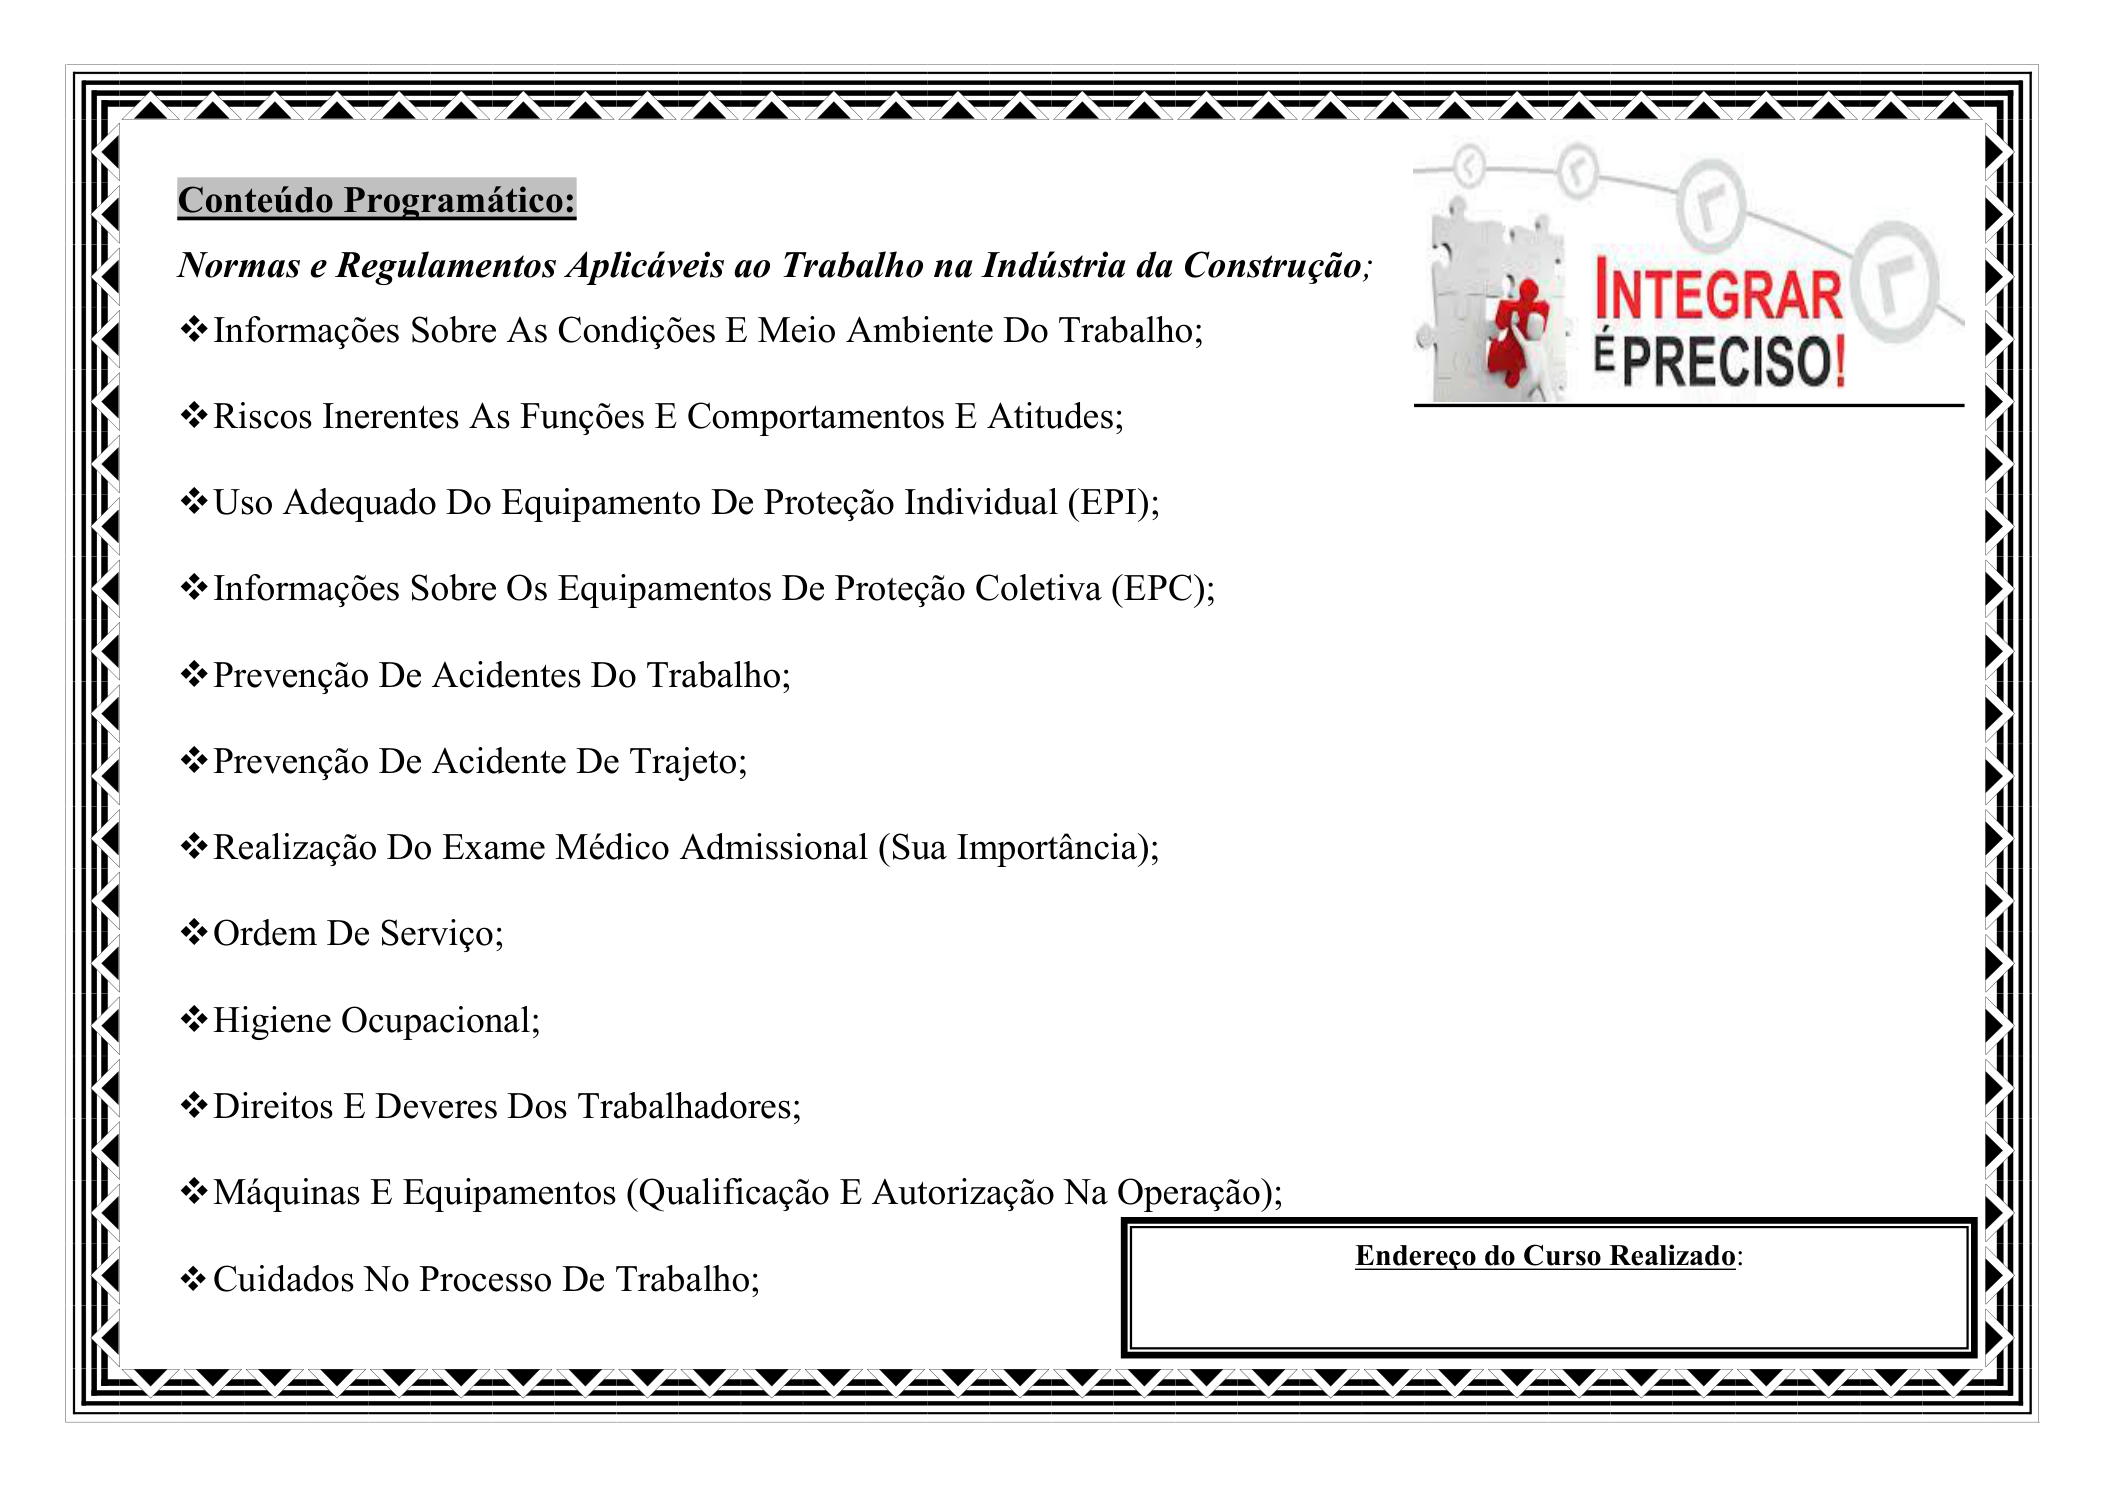
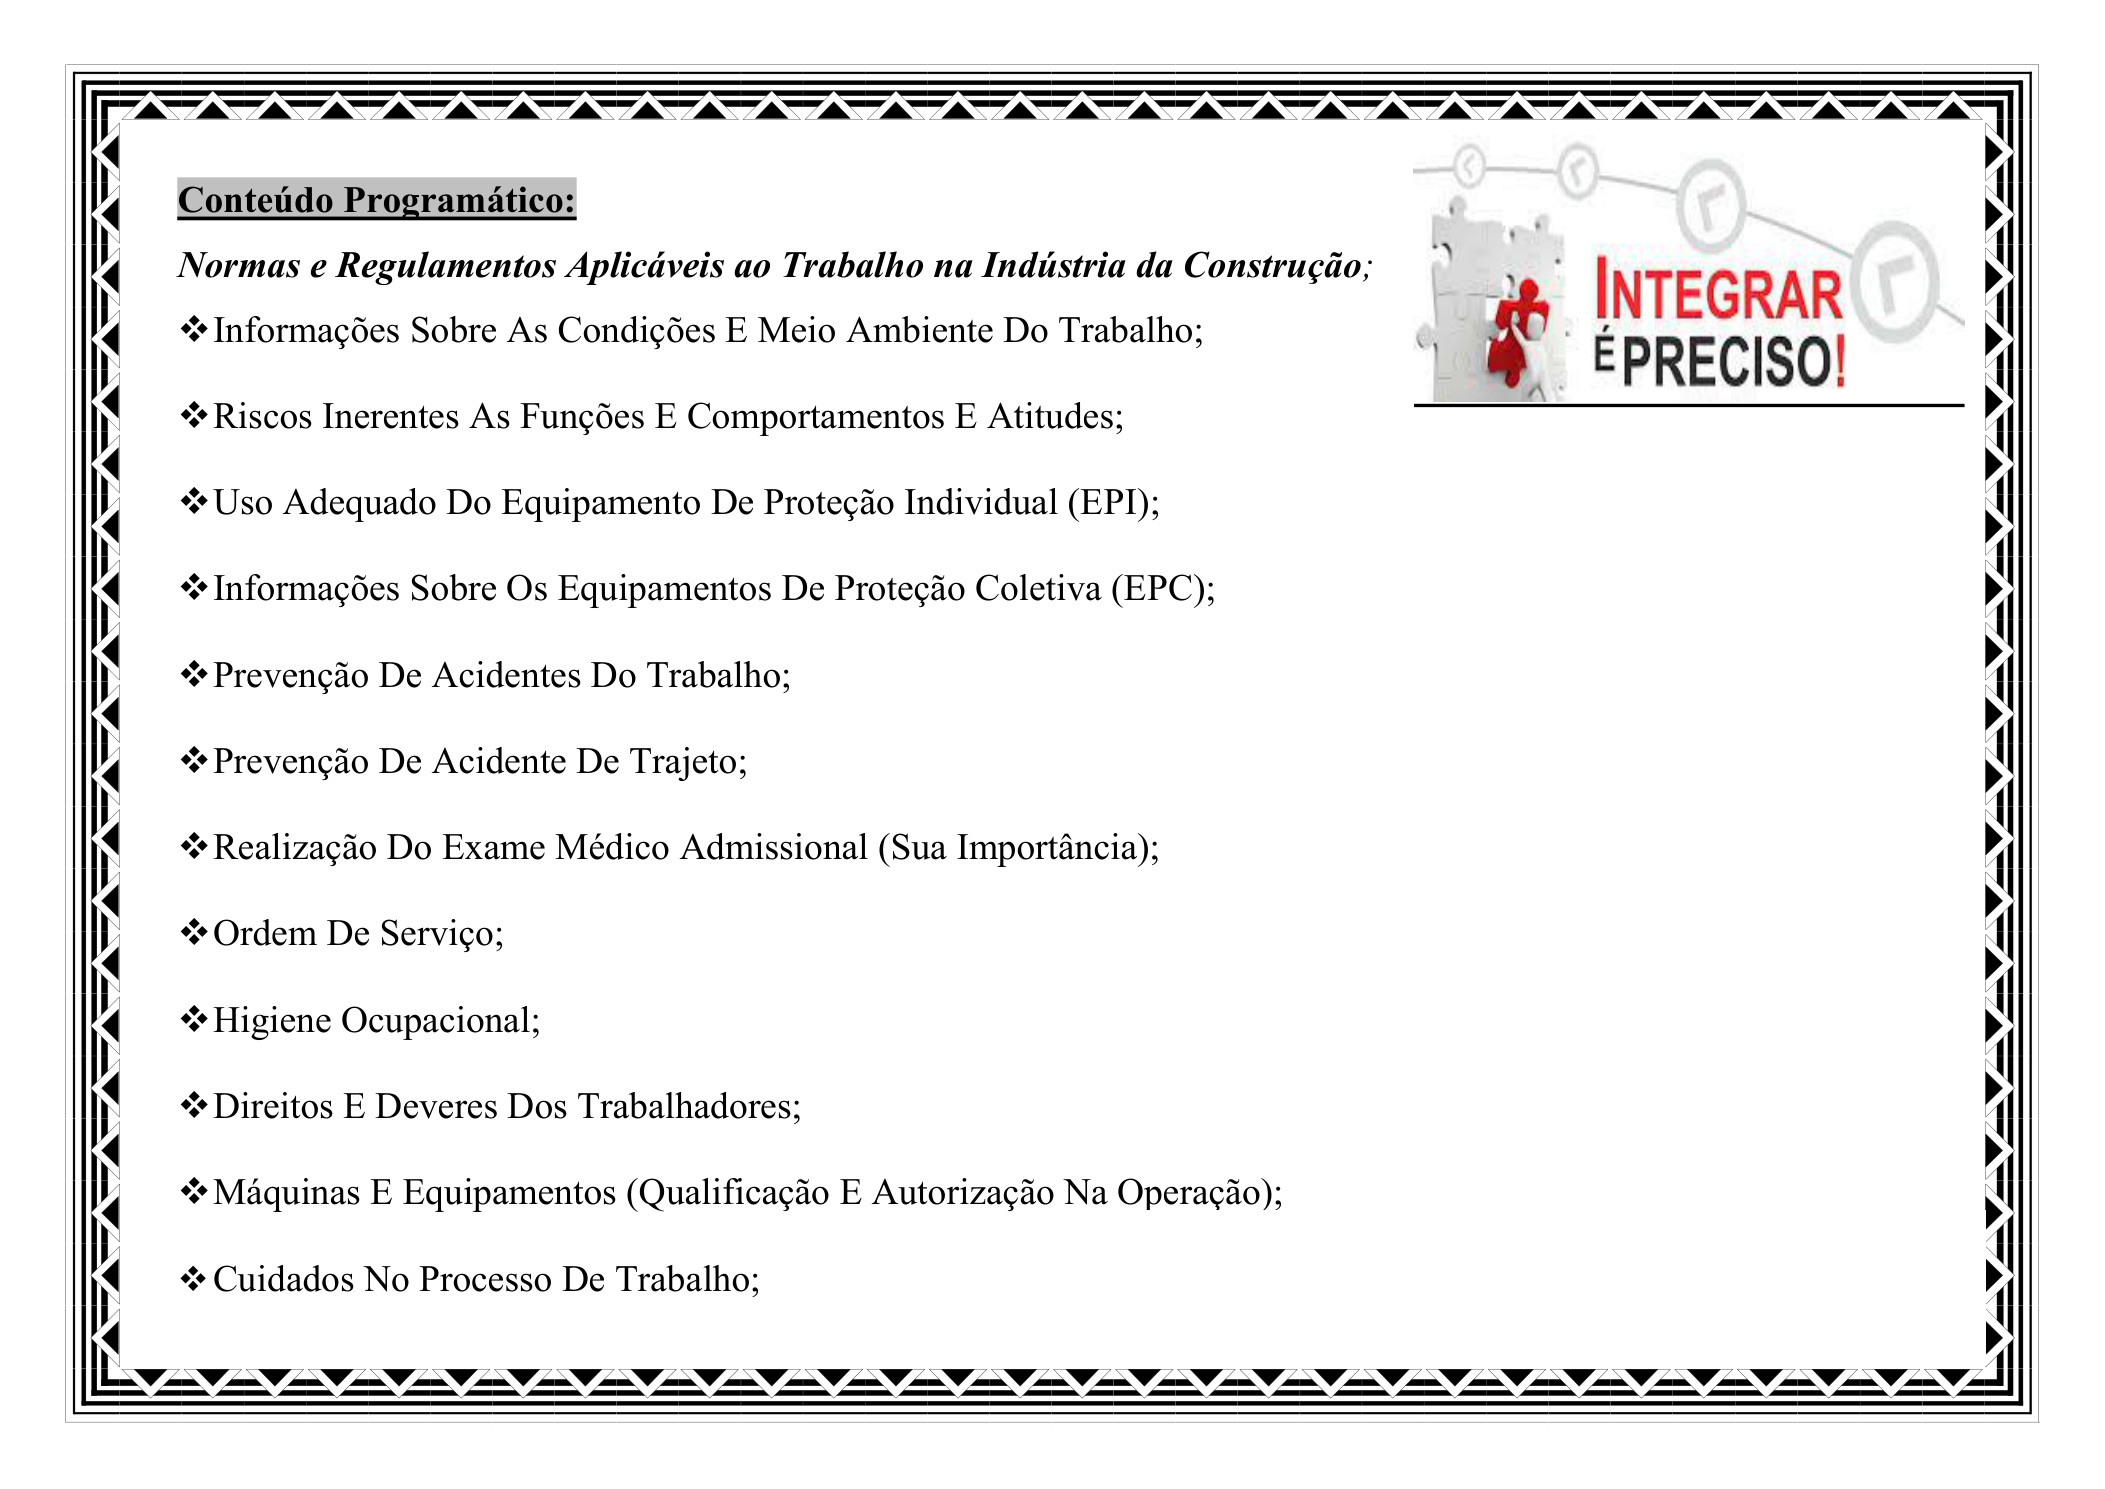
Corrige layout do certificado: remove canetas, reposiciona endereco e Nº de controle.
Apaga assinaturas em caneta do molde, redesenha o quadro de endereco a direita e mais baixo, e evita quebra do numero de controle no registro.

Changed region(s): [[0.5249, 0.8032, 0.9572, 0.9268]]

diff --git a/apps/api/src/training/training-pdf.service.ts b/apps/api/src/training/training-pdf.service.ts
@@ -404,30 +404,28 @@ const FRONT_LAYOUT: Record<
   { bodyY: number; sigY: number; covers: Rect[] }
 > = {
   nr01: {
-    bodyY: 197,
-    sigY: 478,
+    bodyY: 202,
+    sigY: 486,
     // áreas variáveis já estão em branco no PNG do molde
     covers: [],
   },
   nr35: {
-    bodyY: 197,
-    sigY: 462,
+    bodyY: 202,
+    sigY: 470,
     covers: [],
   },
 };
 
 const BACK_LAYOUT: Record<
   'nr01' | 'nr35',
-  { addressBox: Rect; addressTextY: number }
+  { addressBox: Rect }
 > = {
+  // ambos à direita e um pouco mais baixos, para não cobrir o fim da lista
   nr01: {
-    // valor dentro do quadro (abaixo do título, acima da moldura ~547)
-    addressBox: [454, 508, 330, 30],
-    addressTextY: 510,
+    addressBox: [458, 498, 318, 46],
   },
   nr35: {
-    addressBox: [84, 470, 310, 28],
-    addressTextY: 472,
+    addressBox: [458, 498, 318, 46],
   },
 };
 
@@ -587,27 +585,41 @@ export class TrainingPdfService {
     if (template) {
       await drawImage(doc, template, 0, 0, w, h, { stretch: true });
       const layout = BACK_LAYOUT[key];
-      const [ax, , aw, ah] = layout.addressBox;
+      const [ax, ay, aw, ah] = layout.addressBox;
       const address = input.address?.trim() || '—';
-      // evita o PDFKit criar página extra quando o fluxo de texto estoura
-      const pageRef = doc.bufferedPageRange().start + doc.bufferedPageRange().count - 1;
+      const pageRef =
+        doc.bufferedPageRange().start + doc.bufferedPageRange().count - 1;
+      doc.switchToPage(pageRef);
+      // quadro redesenhado à direita (NR35 saiu da esquerda) e um pouco mais baixo
+      doc.save();
+      doc.rect(ax, ay, aw, ah).fill('#ffffff');
+      doc.restore();
+      doubleBox(doc, ax, ay, aw, ah);
+      doc
+        .font('Times-Bold')
+        .fontSize(10)
+        .fillColor(INK)
+        .text('Endereço do Curso Realizado:', ax + 8, ay + 6, {
+          width: aw - 16,
+          align: 'center',
+          underline: true,
+          lineBreak: false,
+          height: 14,
+        });
       doc.font('Times-Roman').fontSize(8).fillColor(INK);
-      // força quebra com folga — endereço longo não pode colar na borda do quadro
-      const wrapW = Math.max(120, aw - 48);
-      const lines = wrapWords(doc, address, wrapW);
-      const lineH = 10;
-      const maxLines = Math.min(2, Math.max(1, Math.floor(ah / lineH)));
-      let y = layout.addressTextY;
-      for (const line of lines.slice(0, maxLines)) {
+      const wrapW = Math.max(120, aw - 28);
+      const lines = wrapWords(doc, address, wrapW).slice(0, 2);
+      let ty = ay + 22;
+      for (const line of lines) {
         doc.switchToPage(pageRef);
-        doc.text(line, ax + 8, y, {
+        doc.text(line, ax + 8, ty, {
           width: aw - 16,
           align: 'center',
           lineBreak: false,
-          height: lineH,
+          height: 10,
           ellipsis: true,
         });
-        y += lineH;
+        ty += 10;
       }
       doc.switchToPage(pageRef);
       return;
@@ -779,7 +791,7 @@ export class TrainingPdfService {
         ['Carga horária:', `${padHours(input.hours)} horas`],
         ['Data da Realização:', formatDateBr(input.heldOn)],
       ];
-          const weights = [0.2, 0.24, 0.2, 0.36];
+      const weights = [0.3, 0.22, 0.2, 0.28];
       let x = left;
       cells.forEach((pair, idx) => {
         const colW = boxW * weights[idx];
@@ -793,15 +805,16 @@ export class TrainingPdfService {
             .stroke();
           doc.restore();
         }
-        doc
-          .font('Times-Roman')
-          .fontSize(10)
-          .fillColor(INK)
-          .text(`${pair[0]} ${pair[1]}`, x + 4, y + 6, {
-            width: colW - 8,
-            lineBreak: false,
-            ellipsis: true,
-          });
+        doc.font('Times-Roman').fontSize(8.5).fillColor(INK);
+        const label = `${pair[0]} `;
+        const labelW = doc.widthOfString(label);
+        doc.text(label, x + 3, y + 7, { lineBreak: false, height: 10 });
+        doc.text(pair[1], x + 3 + labelW, y + 7, {
+          width: Math.max(20, colW - 6 - labelW),
+          height: 10,
+          lineBreak: false,
+          ellipsis: true,
+        });
         x += colW;
       });
     });
